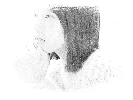
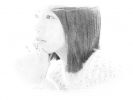
Add imagecopyresampled support

diff --git a/src/_by_gd.php b/src/_by_gd.php
@@ -11,6 +11,15 @@ ${_INIT_CONFIG}[_CLASS] = __NAMESPACE__.'\ByGd';
 
 class ByGd
 {
+    private $_func;
+
+    public function __construct()
+    {
+        $this->_func = (is_callable('imagecopyresampled')) ?
+            'imagecopyresampled' :
+            'imagecopyresized';
+    }
+
     public function __invoke(
         $inputFile,
         $exportFilePath = null,
@@ -55,7 +64,8 @@ class ByGd
         $srcSize = $fileIn->getSize();
         
         // http://php.net/manual/en/function.imagecopyresized.php
-        imagecopyresized(
+        call_user_func(
+            $this->_func,
             $imageOut->toGd(),
             $fileIn->toGd(),
             $toLoc->x,
